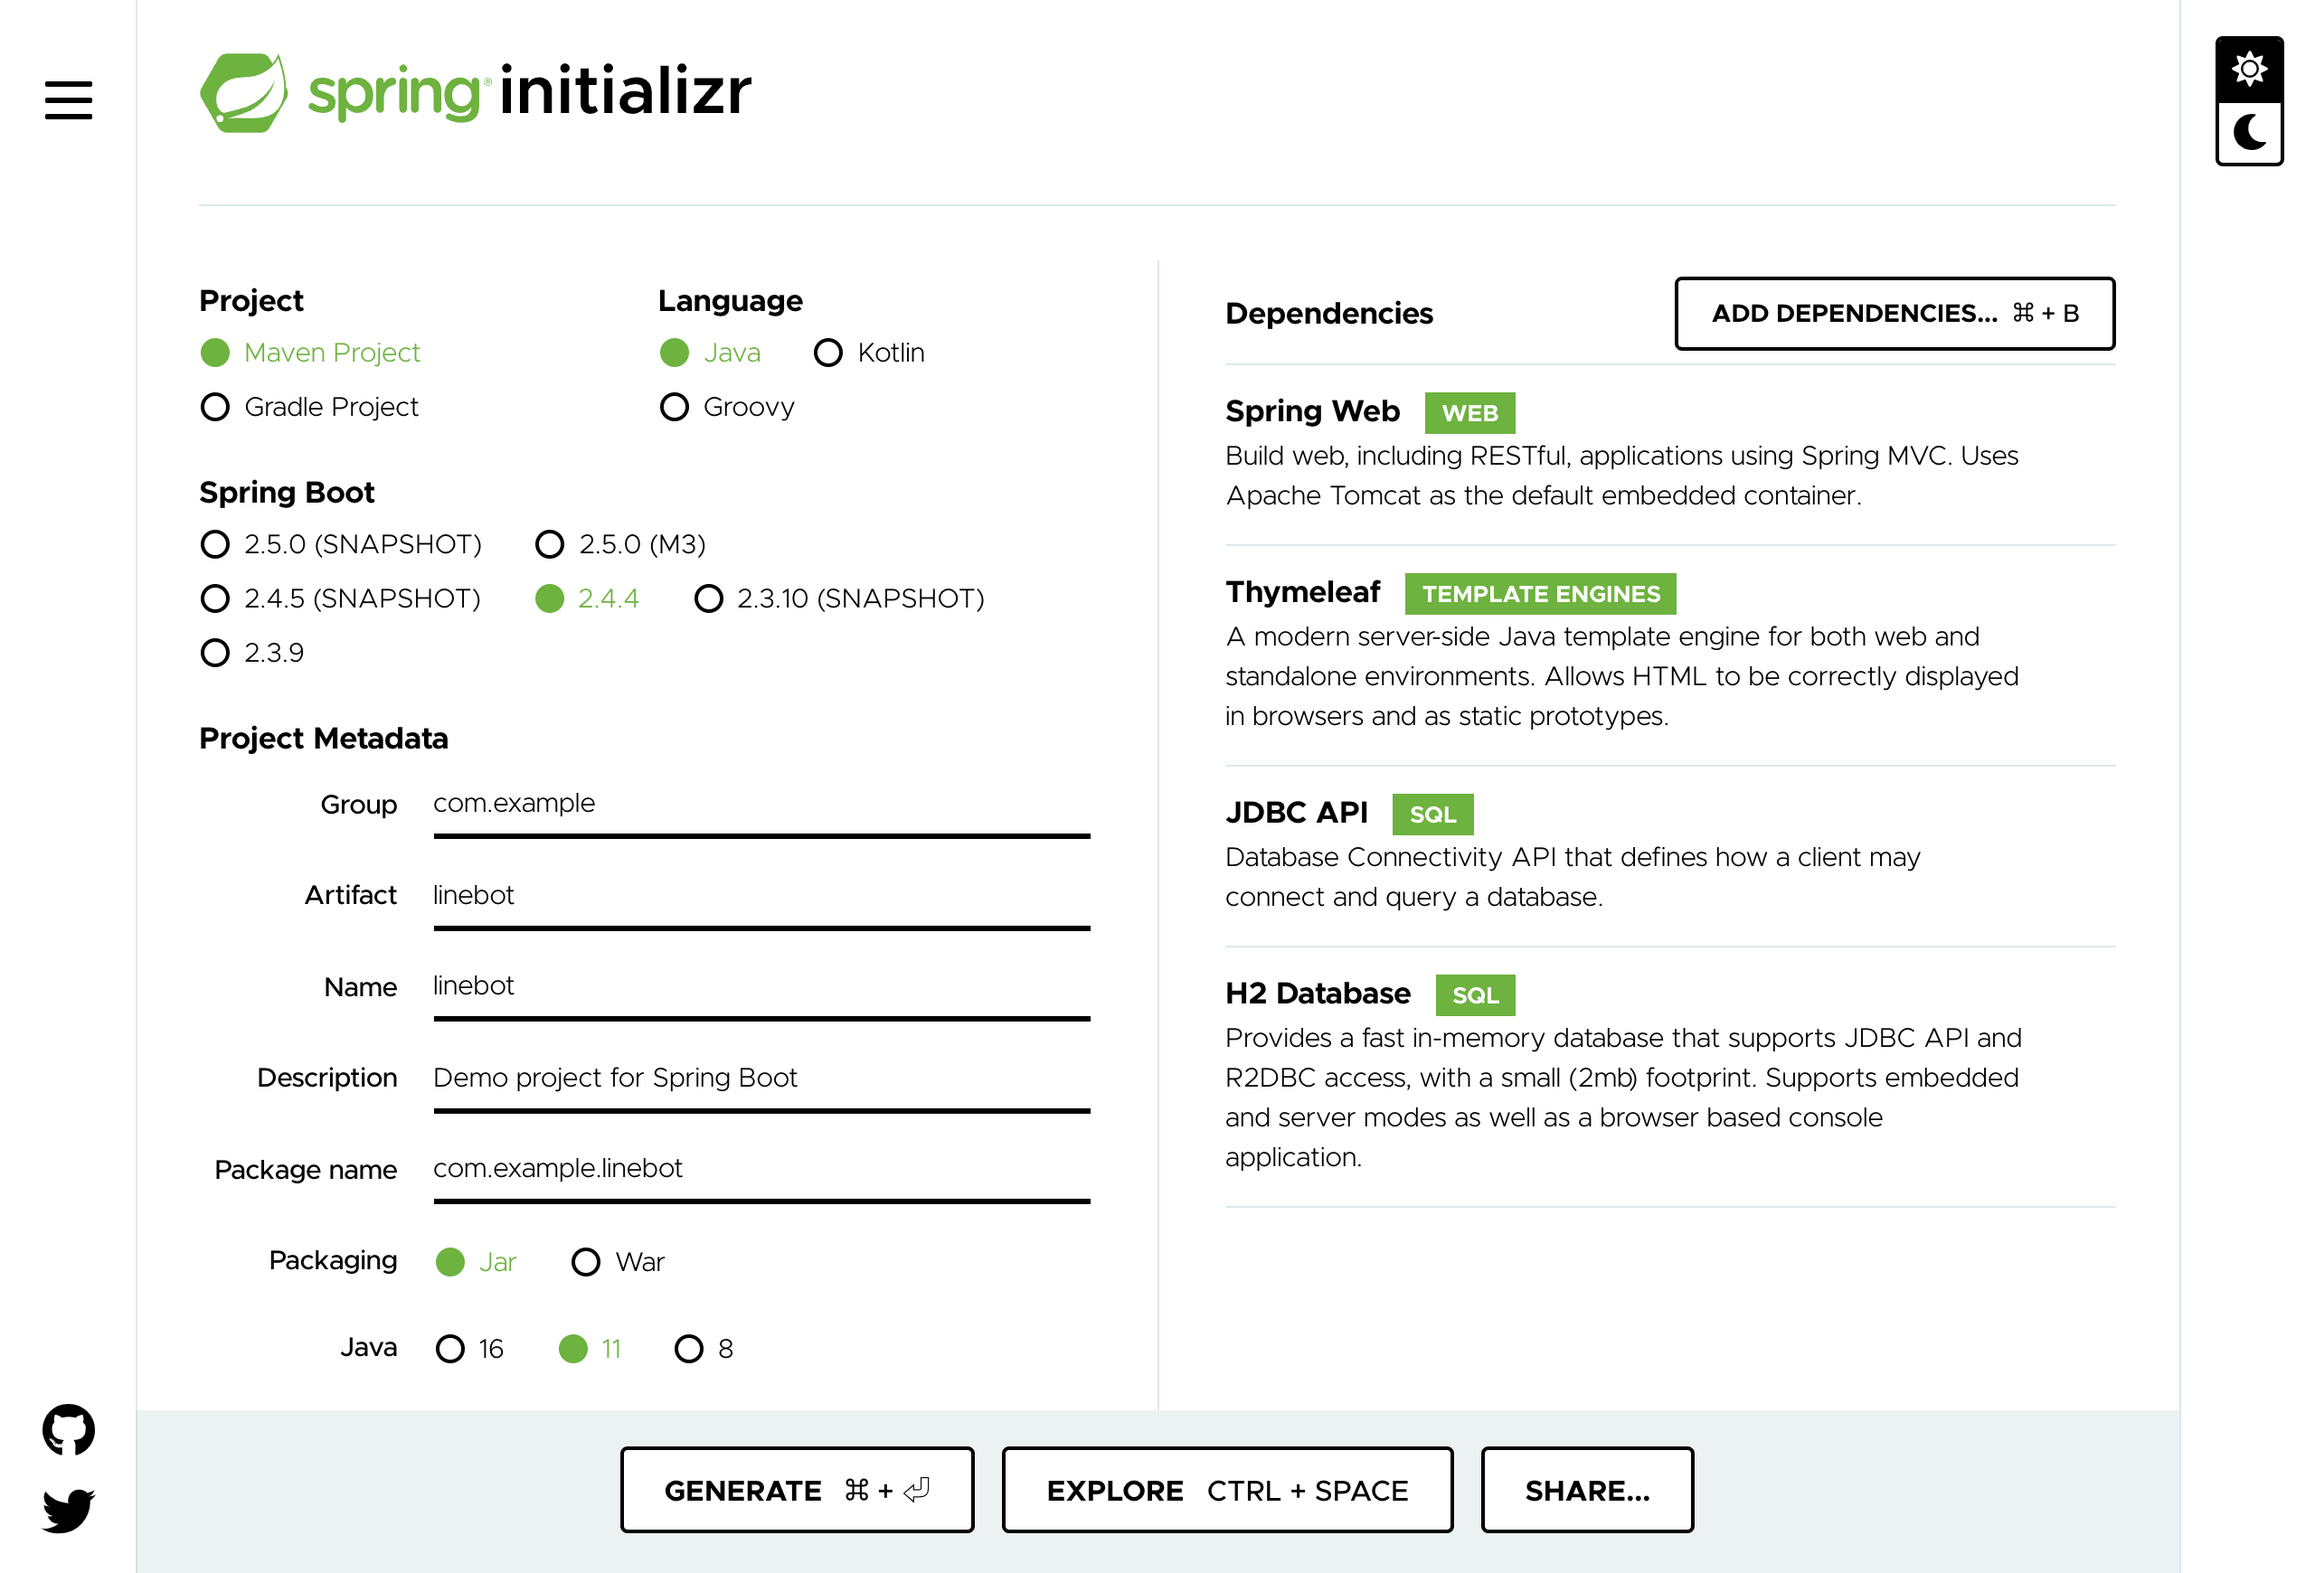
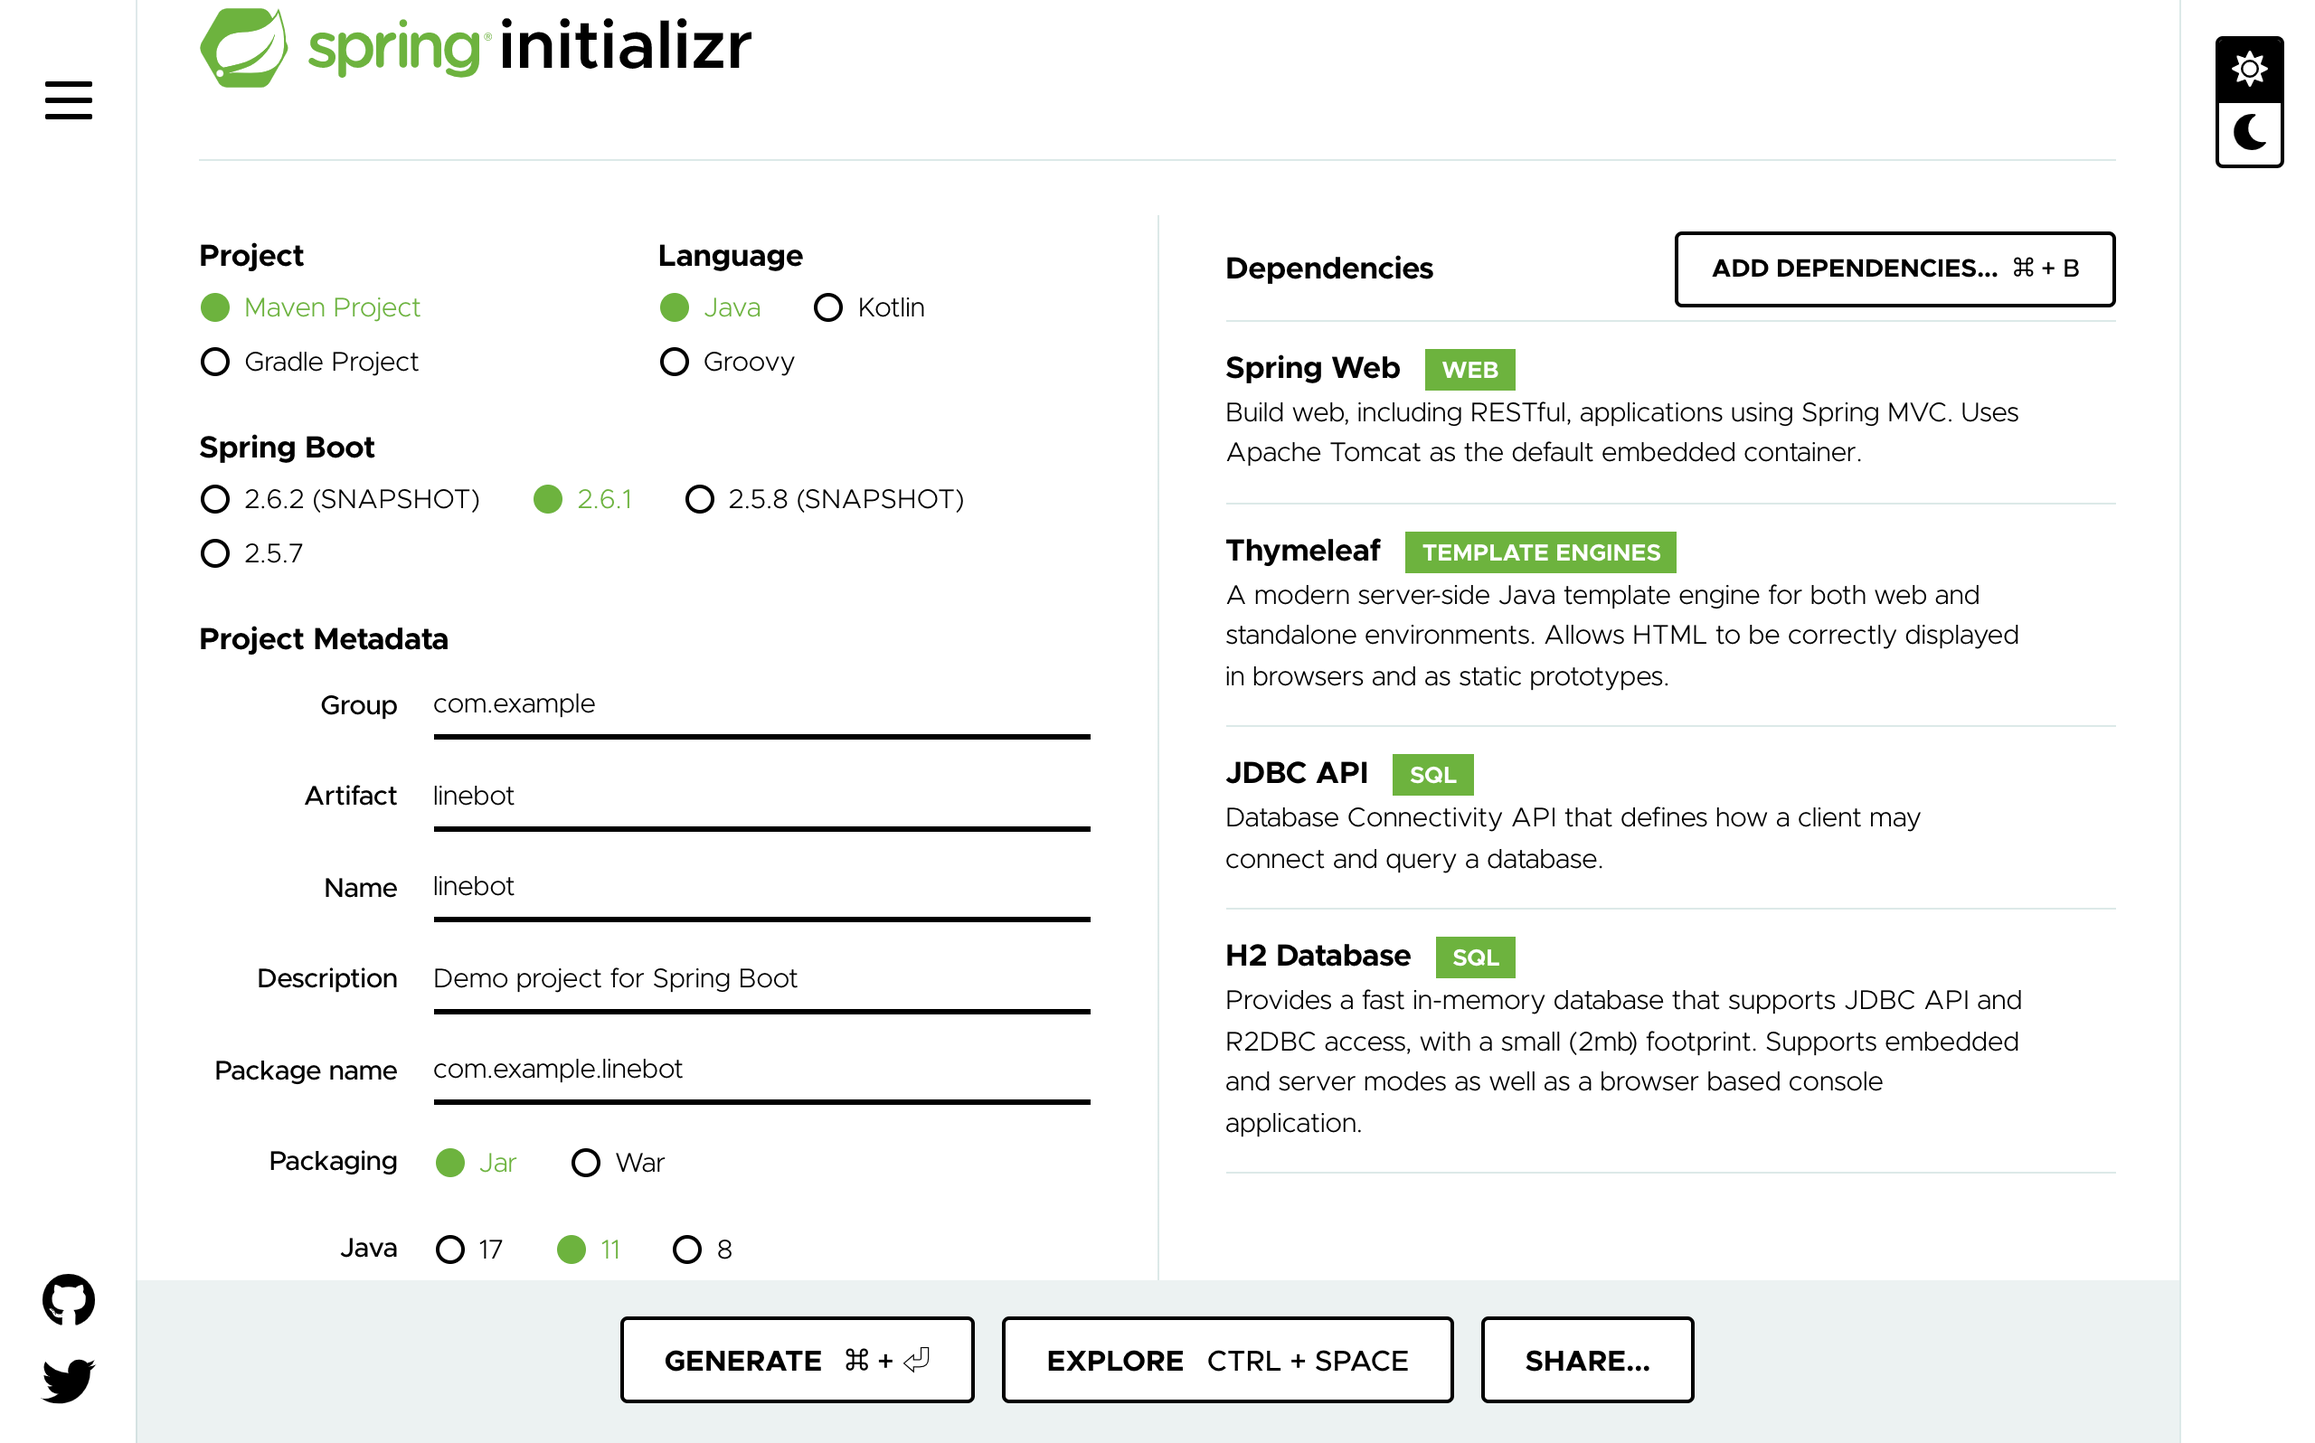
メッセージや変更点の手直し

diff --git a/doc/Settings/03.md b/doc/Settings/03.md
@@ -7,7 +7,7 @@
 原則、画像の通りに進めてもらってかまわないが、補足を以下に記載する。
 
 - もし、画面が英語で表示されてしまう場合は、画面右下の言語設定を `English` から `日本語` に切り替える。  
-  **⚠ ブラウザの翻訳は使わないこと**: ブラウザの翻訳機能を使うと、設定に使うトークン文字列など、本来翻訳すべきではない部分も変わってしまう。
+  **⚠ ブラウザの翻訳は使わないこと**: ブラウザの翻訳機能を使うと、設定に使う文字列など、本来翻訳すべきではない部分も変わってしまう。
   
 - `1. LINE Developersコンソールにログインする` では、それぞれのLINEのアカウントでログインする。
 - `2. 開発者として登録する（初回ログイン時のみ）`  では、それぞれのニックネームやメールアドレス（学生の場合は、自身の大学メールアドレス）を入力する。
@@ -17,10 +17,8 @@
   - `任意` と書かれている項目は空欄でよい。
   - チャンネル名や説明は、個人情報ではない、何か好きなものを入力する。
   - 大業種は `個人` 、小業種は  `個人（IT・コンピュータ）` や `個人（学生）` などを自分の立場にあわせて選ぶ。 
-  - アイコン画像は、[いらすとや](http://www.irasutoya.com/)の素材を使わせてもらうと早い。
-  適当なのがなければ下の画像をどうぞ。  
-  ![ひぐまDuke](./duke_72dpi.png)  
-  
+  - アイコン画像も自分の好きなものを利用してよいが、[いらすとや](http://www.irasutoya.com/)の素材を使わせてもらうのもよい。
+
 ### Messaging APIの設定
 
 [LINE Developersコンソール](https://developers.line.biz/console/) のプロパイダーの欄から、あなたが作成したプロパイダー名 → あなたが作成したチャンネル名 の順に選択する。
@@ -30,8 +28,8 @@
 - **WebHookURL** を、 ngrokで取得した `https://xxxxxxxx.ngrok.io/callback` に変更する（xxxxxxxxは各自のものを使う）
 - **Webhookの利用** を、選択状態（緑色）にスイッチする。
 - **応答メッセージ** の `編集` を選ぶと、 **応答設定** のウィンドウが開く。
-  - `あいさつメッセージ` を `オフ` にする
   - `応答メッセージ` を `オフ` にする
+  - `あいさつメッセージ` を `オフ` にする
   - `Webhook` は、 **`オン` のまま** にする（間違えないように！）
   - ここまで設定したら、**応答設定** のウィンドウを閉じる。
 - **チャネルアクセストークン（長期）** の `発行` ボタンを押す。

diff --git a/doc/Settings/01.md b/doc/Settings/01.md
@@ -24,19 +24,17 @@ mac の場合
 以下の様に表示されれば成功。`https://xxxxxxxx.jp.ngrok.io` の `xxxxxxxx` の部分は人によってそれぞれ異なる。
 
 ```
-ngrok by @inconshreveable
-(Ctrl+C to quit)
-
-Session Status     online
-Session Expires    1 hour, 59 minutes
-Version            2.3.38
-Region             Japan (jp)
-Web Interface      http://127.0.0.1:4040
-Forwarding         http://xxxxxxxx.jp.ngrok.io -> http://localhost:8080
-Forwarding         https://xxxxxxxx.jp.ngrok.io -> http://localhost:8080
-
-Connections        ttl     opn     rt1     rt5     p50     p90
-                   0       0       0.00    0.00    0.00    0.00                
+ngrok by @inconshreveable                    (Ctrl+C to quit)
+                                                                                                  
+Session Status                online                                                                                        
+Session Expires               1 hour, 59 minutes                                                                            
+Version                       2.3.40                                                                                        
+Region                        Japan (jp)                                                                                    
+Web Interface                 http://127.0.0.1:4040                                                                         
+Forwarding                    http://xxxxxxxx.jp.ngrok.io -> http://localhost:8080                               
+Forwarding                    https://xxxxxxxx.jp.ngrok.io -> http://localhost:8080                              
+Connections                   ttl     opn     rt1     rt5     p50     p90                                                   
+                              0       0       0.00    0.00    0.00    0.00                  
 ```
 
 ngrokは起動したままにしておく。特に、
@@ -51,7 +49,6 @@ https://xxxxxxxx.jp.ngrok.io
 
 ⚠ ngrokから発行されるURL（`https://xxxxxxxx.jp.ngrok.io`）はあくまで開発用の一時的なもの。**アカウントを登録しないフリープランでは、1回あたり2時間有効になる。**  
 2時間でURLが変わることが面倒な場合は、ユーザー登録をし、Authtokenを設定すれば時間制限はなくなる（詳しくは [ngrokのDocument](https://ngrok.com/docs) を参照）
-
 
 ⚠ **URLはngrokを再起動するたびに再発行される（違うものに変わる）**。それにあわせて、**後の手順でこのURLを使っている部分も毎回変更する必要がある** ことに注意。
 

diff --git a/doc/Settings/02.md b/doc/Settings/02.md
@@ -2,18 +2,15 @@
 
 ### Srping Boot のプロジェクトを作成する 
 
-https://start.spring.io/ をブラウザ開く。
+https://start.spring.io/ をブラウザ開き、以下の部分を変更する。
 
-- **Project** を `Maven Project` にする
-- **Language** を `Java` にする
-- **Spring Boot** を `2.4.5` にする（実習中に更新された場合は、2.4 の最新版を選ぶ）
 - **Artifact** を `linebot` にする
-- **Java** を `11` にする
 - **Packaging** を `jar` にする
 - **Add Dependencies...** をクリックし、表示されたウィンドウに `Web` と入力し、 `Spring Web` を選ぶ
 - **Add Dependencies...** をクリックし、表示されたウィンドウに `Thyme` と入力し、 `Thymeleaf` を選ぶ
 - **Add Dependencies...** をクリックし、表示されたウィンドウに `jdbc` と入力し、 `JDBC API` を選ぶ
 - **Add Dependencies...** をクリックし、表示されたウィンドウに `h2` と入力し、 `H2 Database` を選ぶ
+- 指示された部分以外はそのままでよい。
 
 ![画面例](init01.png)
 
@@ -28,13 +25,12 @@ https://start.spring.io/ をブラウザ開く。
 利用しているIDEにあわせて、それぞれ読み込ませてください。
 
 - IntelliJ IDEAを使っている場合
-  - import project でフォルダの中の pom.xml を選択
+  - 開く（Open) で展開したフォルダの中の pom.xml を選択
+  - プロジェクトとして開く（Open as Project）
+  - プロジェクトを信頼するか聞かれた場合はプロジェクトを信頼（Trust Project)
 - Eclipseを使っている場合
-  - ファイル ＞ インポート ＞ 既存Mavenプロジェクト でフォルダを選択
+  - ファイル ＞ インポート ＞ 既存Mavenプロジェクト で展開したフォルダを選択
   - 読み込まれたら、プロジェクトを右クリックして Maven ＞ プロジェクトの更新
-- Netbeansを使っている場合
-  - ファイル ＞ プロジェクトを開く でフォルダを選択
-  - 読み込まれたら、プロジェクトを右クリックして「依存性でビルド」と「消去してビルド」
 
 必要なファイルが読み込まれるまで、時間がかかる可能性があります。
 

diff --git a/doc/Settings/04.md b/doc/Settings/04.md
@@ -4,6 +4,8 @@
 
 プロジェクトファイル（ルートフォルダ）のpom.xmlファイルの `<dependencies>〜</dependencies>` の中に、下の内容を追加する。
 
+これにより、プログラムの中にLineBot用の開発ライブラリが導入される。 場所を間違えやすいので注意。
+
 ```xml
 <dependencies>
 
@@ -12,12 +14,12 @@
     <dependency>
         <groupId>com.linecorp.bot</groupId>
         <artifactId>line-bot-spring-boot</artifactId>
-        <version>4.3.0</version>
+        <version>4.7.0</version>
     </dependency>
 </dependencies>
 ```
 
-変更したら、右クリック > Maven > プロジェクトの再ロード を選択する。これにより、必要なファイル（ライブラリ）が追加でダウンロードされる。
+変更したら、右クリック > Maven > プロジェクトの再ロード を選択する。これにより、必要なファイル（ライブラリ）が追加でダウンロードされる。（しばらく時間がかかるので、画面右下のインジケーターバーが落ち着くまで待つ）
 
 ![リロード](fig04a.png)
 
@@ -26,7 +28,7 @@
 
 IDEに戻って、その他のソース（src/main/resources）の application.properties ファイルを、**前の手順で設定したMessaging APIの設定画面の情報で上書き**する。
 
-つまり、チャンネルシークレットやチャネルアクセストークンの値は個々人によって異なる。
+つまり、 **チャンネルシークレットやチャネルアクセストークンの値は個々人によって異なる** 。
 
 - `line.bot.channel-token` には **チャネルアクセストークン（長期）の値** を貼り付ける。  
 **チャネルアクセストークン（長期）の値は、Messaging APIの設定画面の「Messaging API設定」タブ**にある。

diff --git a/doc/Basics/06.md b/doc/Basics/06.md
@@ -1,6 +1,6 @@
 ## 時間帯にあわせてあいさつするBot
 
-朝はおはよう、昼はこんにちは、夜はこんばんはと返すようにBotを改良する。
+朝は「おはよう」、昼は「こんにちは」、夜は「こんばんは」と返すようにBotを改良する。
 
 #### Greet クラスを作成
 
